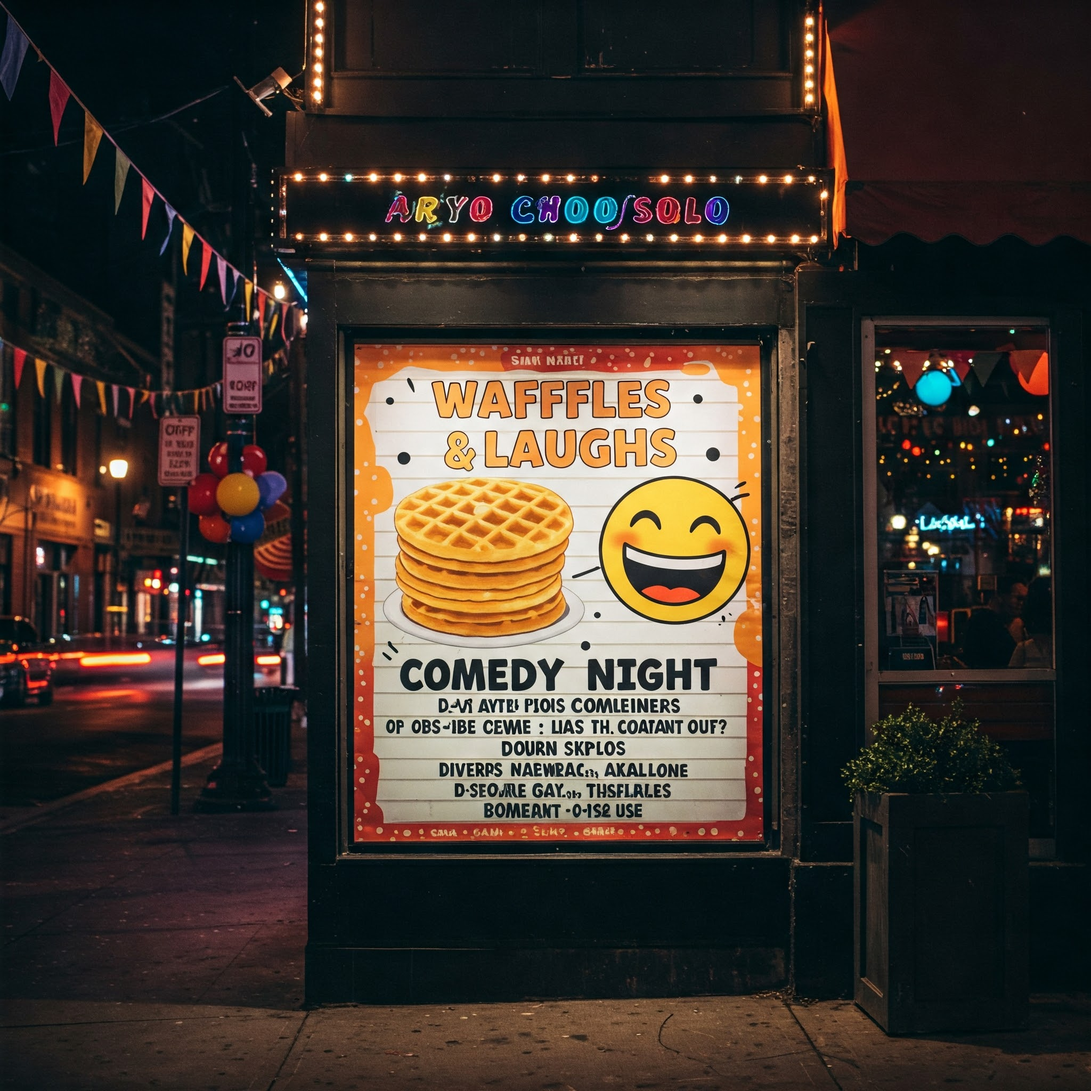
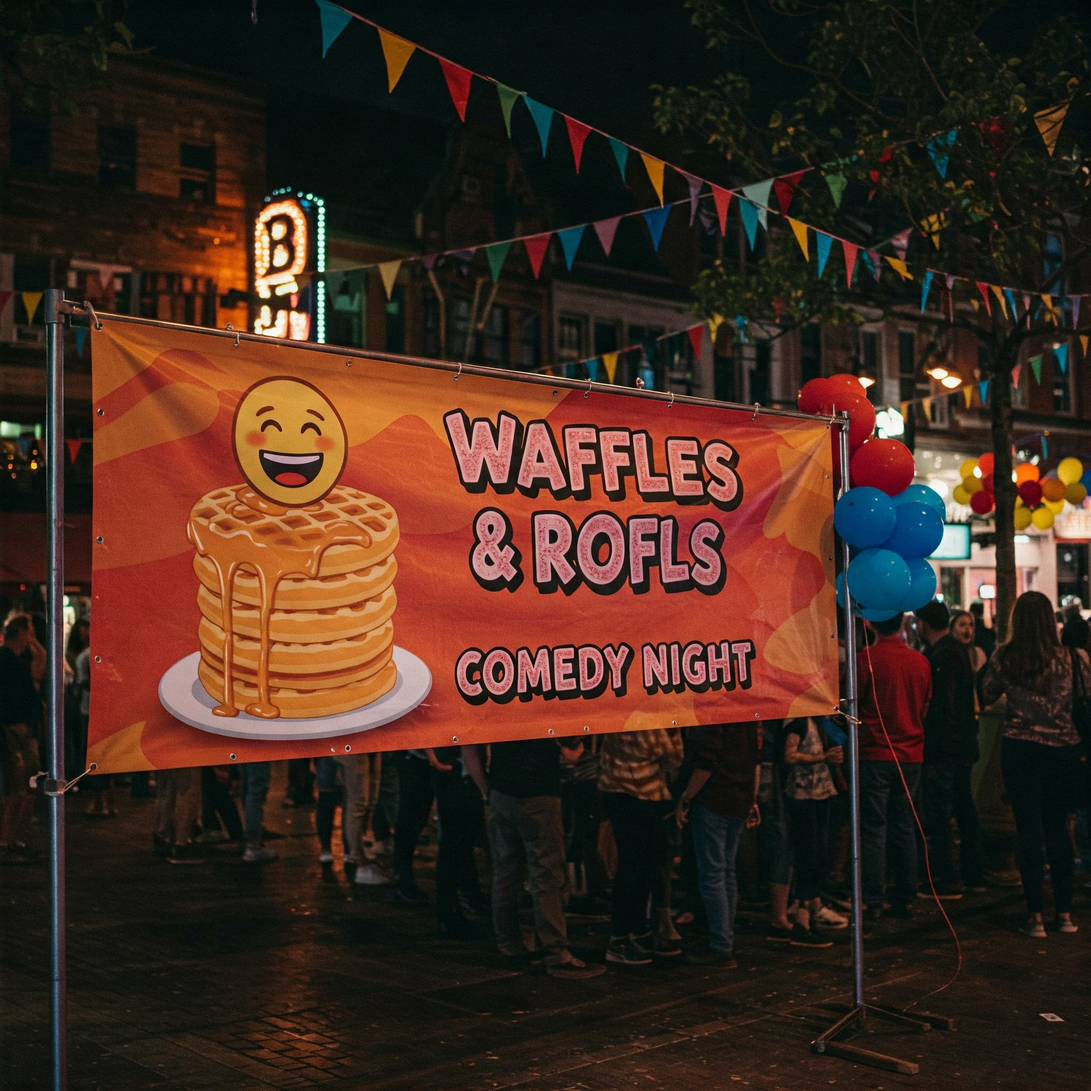
Edited some content on the event hub

diff --git a/Semantic HTML/EventHub/index.html b/Semantic HTML/EventHub/index.html
@@ -21,6 +21,10 @@
         </nav>
     </header>
     <main>
+        <section id="about">
+            <h2>About</h2>
+            <p>Welcome to a world where the aroma of freshly baked waffles mingles with the sweet scent of ice cream! We're dedicated to creating unforgettable events that combine the joy of delicious treats with fun and engaging experiences. From waffle cone competitions to comedy nights, our events offer something for everyone. Brought to you by the creative vision of Jess Jordan, we're passionate about making every occasion a sweet success.</p>
+        </section>
         <section id="upcoming-events">
             <h2>Upcoming Events</h2>
             <article>
@@ -40,13 +44,13 @@
                 <h3>Waffle Wonderland Pop-Up Shop!</h3>
                 <p>We're bringing our whimsical world of ice cream waffles to a special location for a limited time! Come and experience our most popular waffle creations and discover some exclusive, never-before-seen flavor combinations. It's the perfect opportunity to grab a sweet treat and immerse yourself in the delightful deliciousness of [Your Company Name].</p>
                 <p>Date: <time datetime="2025-02-07T15:00">7th February</time></p>
-                <img src="./wwpopup.jpeg" alt="Our waffle wonderland pop up" />
+                <img src="./wwpopup.jpeg" alt="Our waffle wonderland pop up" width="80%"/>
             </article>
             <article>
-                <h3>"Waffles & Laughs" Comedy Night!</h3>
-                <p>Treat yourself to an evening of sweet and savory delights with our "Waffles & Laughs" comedy night! Enjoy a selection of our signature ice cream waffles while local comedians take the stage to deliver some laughs. It's the perfect way to unwind and indulge in a unique and entertaining experience.</p>
+                <h3>"Waffles & ROFLs" Comedy Night!</h3>
+                <p>Treat yourself to an evening of sweet and savory delights with our "Waffles & ROFLs" comedy night! Enjoy a selection of our signature ice cream waffles while local comedians take the stage to deliver some laughs. It's the perfect way to unwind and indulge in a unique and entertaining experience.</p>
                 <p>Date: <time datetime="2025-01-30T15:00">30th Janurary</time></p>
-                <img src="./comedy.jpeg" alt="Our waffle wonderland pop up" />
+                <img src="./comedy.jpeg" alt="Our waffle wonderland pop up" width="80%"/>
             </article>
         </section>
     </main>
